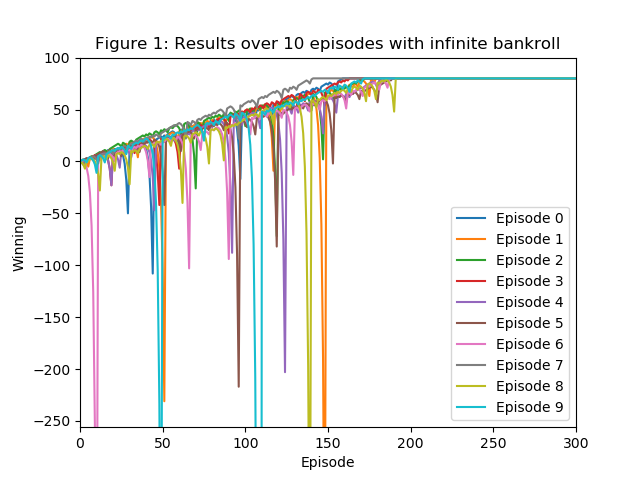
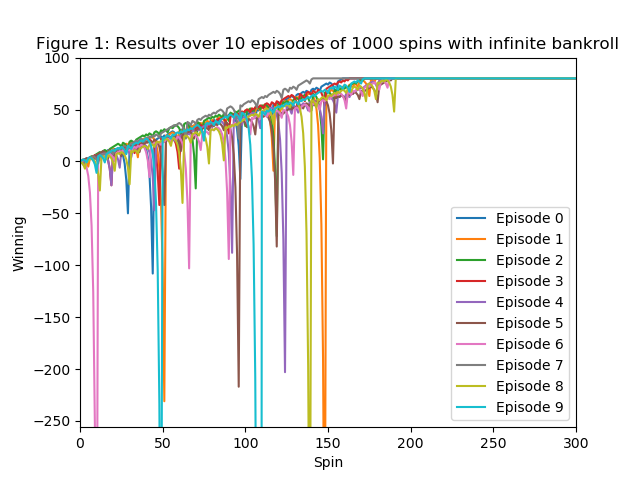
updated figure 1 axis label

Changed region(s): [[0.0625, 0.0625, 0.9688, 0.125], [0.4688, 0.9375, 0.5625, 1.0]]

diff --git a/martingale/martingale.py b/martingale/martingale.py
@@ -130,8 +130,8 @@ def experiment_1_1():
         data[i] = betting_episode()[1]
     for d in data:
         plt.plot(d, label="Test")
-    plt.title("Figure 1: Results over 10 episodes with infinite bankroll")
-    plt.xlabel("Episode")
+    plt.title("Figure 1: Results over 10 episodes of 1000 spins with infinite bankroll")
+    plt.xlabel("Spin")
     plt.ylabel("Winning")
     plt.xlim(0,300)
     plt.ylim(-256, 100)
